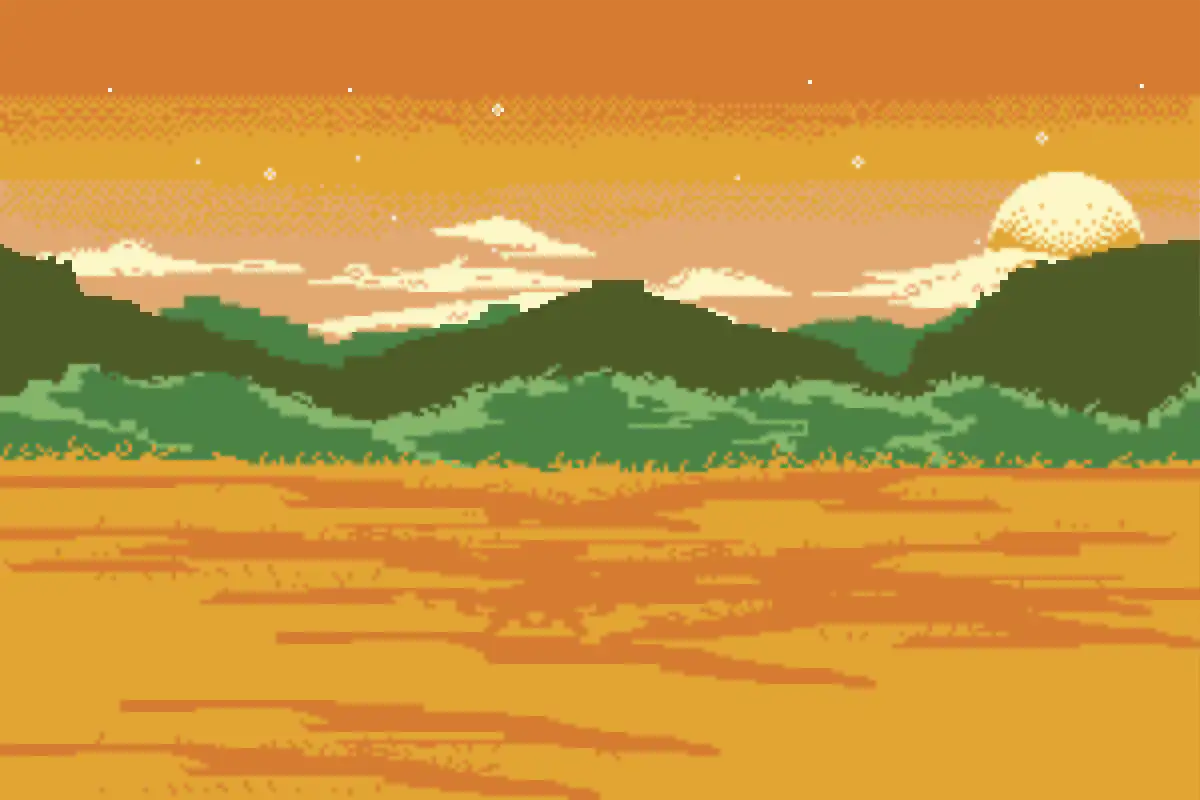
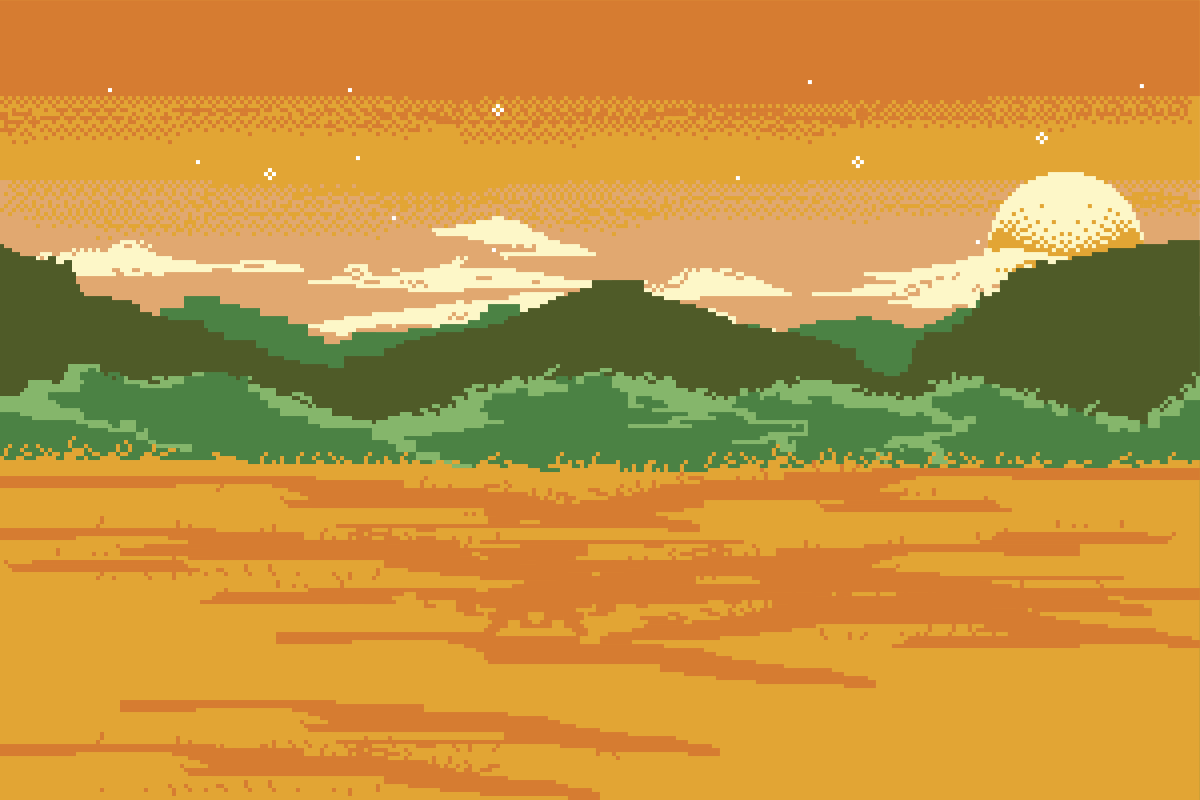
add html structure + reset and index css + libraries

diff --git a/src/index.css b/src/index.css
@@ -1,0 +1,58 @@
+html {
+  scroll-behavior: smooth;
+}
+
+body {
+  min-height: 100svh;
+  background-attachment: fixed;
+  background-color: #fafafa;
+  background-image: url("/bg.webp");
+  background-position: center;
+  background-repeat: no-repeat;
+  background-size: cover;
+}
+
+.header {
+  display: flex;
+  flex-direction: row;
+  align-items: center;
+  justify-content: flex-end;
+  padding: 1.5em;
+  gap: 2em;
+}
+
+.main {
+  display: flex;
+  flex-direction: column;
+  flex-grow: 1;
+}
+
+.title {
+  font-size: 72px;
+}
+
+.subtitle {
+  font-size: 36px;
+}
+
+.section {
+  height: 100svh;
+  display: flex;
+  flex-direction: column;
+  flex-grow: 1;
+}
+
+.continue-section {
+  flex-grow: 1;
+  display: flex;
+  flex-direction: column;
+  align-items: center;
+  justify-content: center;
+  gap: 1em;
+}
+
+.button-group {
+  display: flex;
+  flex-direction: column;
+  gap: 1em;
+}

diff --git a/src/reset.css b/src/reset.css
@@ -1,0 +1,50 @@
+/*
+  Josh's Custom CSS Reset
+  https://www.joshwcomeau.com/css/custom-css-reset/
+*/
+
+*,
+*::before,
+*::after {
+  box-sizing: border-box;
+}
+
+* {
+  margin: 0;
+}
+
+body {
+  line-height: 1.5;
+  -webkit-font-smoothing: antialiased;
+}
+
+img,
+picture,
+video,
+canvas,
+svg {
+  display: block;
+  max-width: 100%;
+}
+
+input,
+button,
+textarea,
+select {
+  font: inherit;
+}
+
+p,
+h1,
+h2,
+h3,
+h4,
+h5,
+h6 {
+  overflow-wrap: break-word;
+}
+
+#root,
+#__next {
+  isolation: isolate;
+}
